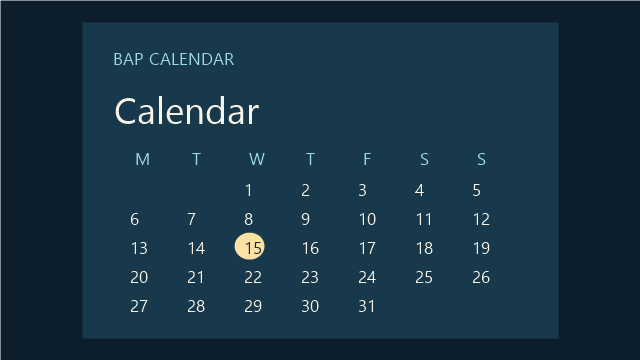
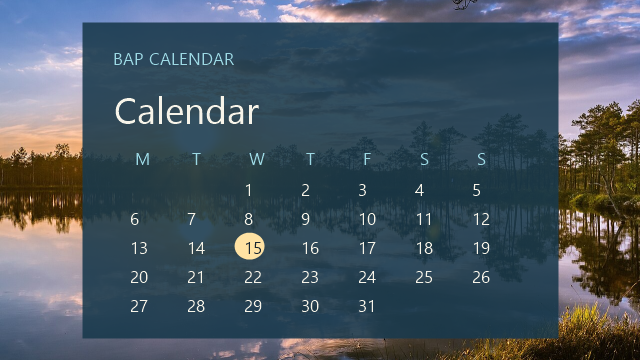
examples: prepare landscape calendar for Workshop testing

diff --git a/calendar-widget/index.html b/calendar-widget/index.html
@@ -1,2 +1,2 @@
 <!doctype html><html lang="en"><head><meta charset="utf-8"><meta name="viewport" content="width=device-width,initial-scale=1"><title>BAP Calendar Widget</title>
-<style>html,body,#root{width:100%;height:100%;margin:0}body{display:grid;place-items:center;background:radial-gradient(circle at 75% 20%,#426c8c,#102a43 48%,#081824);color:#f7f4e9;font-family:"Segoe UI",system-ui,sans-serif}.calendar{width:min(360px,calc(100vw - 48px));box-sizing:border-box;padding:24px;border:1px solid #ffffff4d;border-radius:24px;background:#10283cd9;box-shadow:0 18px 48px #0008}.topline{display:flex;justify-content:space-between;align-items:center}.eyebrow{font-size:11px;letter-spacing:.24em;color:#9bd9e4}.collapse{cursor:pointer;border:1px solid #ffffff55;border-radius:8px;background:#ffffff16;color:#f7f4e9;padding:5px 9px;font:12px "Segoe UI",system-ui,sans-serif}.collapse:hover,.collapse:focus-visible{background:#ffffff35}.heading{display:flex;justify-content:space-between;align-items:baseline;margin:12px 0 20px}.month{font-size:25px;font-weight:500}.year{font-size:16px;color:#bad1dc}.grid{display:grid;grid-template-columns:repeat(7,1fr);gap:7px;text-align:center}.grid[hidden]{display:none}.weekday{font-size:11px;color:#a5bdc8;padding-bottom:7px}.day{display:grid;place-items:center;height:32px;font-size:14px;border-radius:50%}.outside{opacity:.3}.today{background:#ffe2a3;color:#172532;font-weight:700}</style></head><body><main id="root"><section class="calendar" aria-label="Calendar"><div class="topline"><div class="eyebrow">BAP CALENDAR</div><button class="collapse" id="toggle-calendar" type="button" aria-controls="grid" aria-expanded="true" aria-label="Collapse calendar">Collapse</button></div><div class="heading"><span class="month" id="month">Loading</span><span class="year" id="year"></span></div><div class="grid" id="grid"></div></section></main><script type="module" src="./main.js"></script></body></html>
+<style>html,body,#root{width:100%;height:100%;margin:0}body{display:grid;place-items:center;background:#102a43 url('../assets/calendar-widget/river-sunset.jpg') center/cover no-repeat;color:#f7f4e9;font-family:"Segoe UI",system-ui,sans-serif}.calendar{width:min(360px,calc(100vw - 48px));box-sizing:border-box;padding:24px;border:1px solid #ffffff4d;border-radius:24px;background:#10283cd9;box-shadow:0 18px 48px #0008}.topline{display:flex;justify-content:space-between;align-items:center}.eyebrow{font-size:11px;letter-spacing:.24em;color:#9bd9e4}.collapse{cursor:pointer;border:1px solid #ffffff55;border-radius:8px;background:#ffffff16;color:#f7f4e9;padding:5px 9px;font:12px "Segoe UI",system-ui,sans-serif}.collapse:hover,.collapse:focus-visible{background:#ffffff35}.heading{display:flex;justify-content:space-between;align-items:baseline;margin:12px 0 20px}.month{font-size:25px;font-weight:500}.year{font-size:16px;color:#bad1dc}.grid{display:grid;grid-template-columns:repeat(7,1fr);gap:7px;text-align:center}.grid[hidden]{display:none}.weekday{font-size:11px;color:#a5bdc8;padding-bottom:7px}.day{display:grid;place-items:center;height:32px;font-size:14px;border-radius:50%}.outside{opacity:.3}.today{background:#ffe2a3;color:#172532;font-weight:700}</style></head><body><main id="root"><section class="calendar" aria-label="Calendar"><div class="topline"><div class="eyebrow">BAP CALENDAR</div><button class="collapse" id="toggle-calendar" type="button" aria-controls="grid" aria-expanded="true" aria-label="Collapse calendar">Collapse</button></div><div class="heading"><span class="month" id="month">Loading</span><span class="year" id="year"></span></div><div class="grid" id="grid"></div></section></main><script type="module" src="./main.js"></script></body></html>

diff --git a/README.md b/README.md
@@ -9,8 +9,8 @@ This repository contains a browser-runnable BAP MVP integration example:
 - `host-wallpaper/` is a Wallpaper Engine Web wallpaper using Host SDK,
   looping video, optional BGM, WE callbacks, and independently discovered components.
 - `time-widget/` is a real dual-mode component wallpaper using Component SDK.
-- `calendar-widget/` is a distinct dual-mode calendar component for local
-  multi-component integration tests; it is not a Workshop upload project.
+- `calendar-widget/` is a distinct dual-mode calendar component with a
+  landscape-backed Standalone Mode and a transparent Embedded Mode.
 - `assets/ASSET-PROVENANCE.md` records the open-license demo media and hashes.
 - `companion/` is a local HTTP mock for configuration and component discovery.
 - `host/` uses the official `host-sdk` `HostRuntime` to mount the iframe.
@@ -60,17 +60,18 @@ GET /api/config             -> persisted configuration
 
 ## Hidden Workshop test items
 
-`npm run build` creates two separate Wallpaper Engine project folders:
-`dist/workshop-host-wallpaper/` and `dist/workshop-time-widget/`. Each contains
+`npm run build` creates three separate Wallpaper Engine project folders:
+`dist/workshop-host-wallpaper/`, `dist/workshop-time-widget/`, and
+`dist/workshop-calendar-widget/`. Each contains
 its own `project.json`, required SDK, and media assets. The host package does
 not bundle components or the Companion service; it only contains a small client
 that connects to the separately running Windows Companion. Without Companion,
 the video wallpaper remains available but no widget is mounted. The separate
 `dist/local-calendar-widget/` package has a distinct component ID and no
 `project.json`; it is only for local multi-component testing. The separate
-`dist/we-local-calendar-widget/` package adds valid WE metadata and a distinct
-preview so its Standalone Mode appears as one local WE editor item. It is not
-an online Workshop item.
+`dist/workshop-calendar-widget/` package adds canonical WE metadata, a distinct
+preview, and the landscape asset for official-editor publication. Building or
+copying this package does not publish it online.
 
 The component package's `embedded.html` is built as a self-contained document.
 The Host retrieves it through the Companion's authenticated resource endpoint

diff --git a/README.zh-CN.md b/README.zh-CN.md
@@ -8,7 +8,7 @@
 - `host/`：最小 Host 与 Companion mock 浏览器示例。
 - `host-wallpaper/`：使用官方 Host SDK 的真实 WE 主壁纸，包含循环视频、可选 BGM、WE 回调、暂停/恢复，以及通过独立 Companion 发现的多个组件。
 - `time-widget/`：使用官方 Component SDK 的双模式时间/日期组件。
-- `calendar-widget/`：形态不同的双模式月历组件，用于本地多组件联调；它不是 Workshop 上传项目。
+- `calendar-widget/`：形态不同的双模式月历组件；独立模式使用静态风景图，嵌入模式保持透明背景。
 - `assets/ASSET-PROVENANCE.md`：开放许可素材、来源和 SHA-256 记录。
 
 ## 构建与运行
@@ -33,16 +33,17 @@ npm run serve
 
 ## 隐藏 Workshop 测试项目
 
-`npm run build` 会生成两个相互独立的 Wallpaper Engine 项目目录：
-`dist/workshop-host-wallpaper/` 和 `dist/workshop-time-widget/`。两者分别包含
+`npm run build` 会生成三个相互独立的 Wallpaper Engine 项目目录：
+`dist/workshop-host-wallpaper/`、`dist/workshop-time-widget/` 和
+`dist/workshop-calendar-widget/`。三者分别包含
 `project.json`、所需 SDK 和媒体资源。宿主包不内置任何组件或 Companion 服务，
 只保留连接独立 Windows Companion 的轻量客户端。Companion 不可用时，视频壁纸仍可运行，
 但不会挂载组件。
 
 `dist/local-calendar-widget/` 是独立的本地组件包，具有不同的组件 ID，且不含
-`project.json`；它仅用于本地双组件测试。另有 `dist/we-local-calendar-widget/`
-包含有效的 WE 元数据和独立预览图，使独立模式作为一个本地编辑项目出现在 WE 中；
-它不是线上 Workshop item。
+`project.json`；它仅用于本地双组件测试。另有 `dist/workshop-calendar-widget/`
+包含符合现有项目模板的 WE 元数据、独立预览图和风景素材，可通过 WE 官方编辑器发布。
+仅构建或复制该目录不会在线发布。
 
 组件包的 `embedded.html` 在构建时生成自包含文档。宿主通过 Companion 的鉴权
 资源接口读取该文档，再使用 Host SDK 的隔离 `srcdoc` 模式挂载。组件文件不会

diff --git a/assets/ASSET-PROVENANCE.md b/assets/ASSET-PROVENANCE.md
@@ -7,6 +7,8 @@ official game assets are included.
 |---|---|---|---|
[2 lines of base64/hex data omitted]
+| `calendar-widget/river-sunset.jpg` (build output) | Reuses the checked-in `time-widget/river-sunset.jpg` above. | Same CC0 1.0 source; copied into the independent calendar package at build time. | Same SHA-256 as above. |
+| `calendar-widget/preview.png` | Generated from the same landscape and project-owned calendar artwork by `scripts/generate-calendar-preview.ps1`. | Landscape is CC0 1.0; calendar artwork is created in this repository. | Rebuild with the script before changing the preview. |
 | BGM | none bundled | Optional local `assets/host-wallpaper/bgm.ogg`; if absent, the demo uses a Web Audio fallback tone. | Keep local BGM out of Git unless its redistribution license is documented here. |
 
 The build intentionally does not fetch remote assets. The checked-in files are
